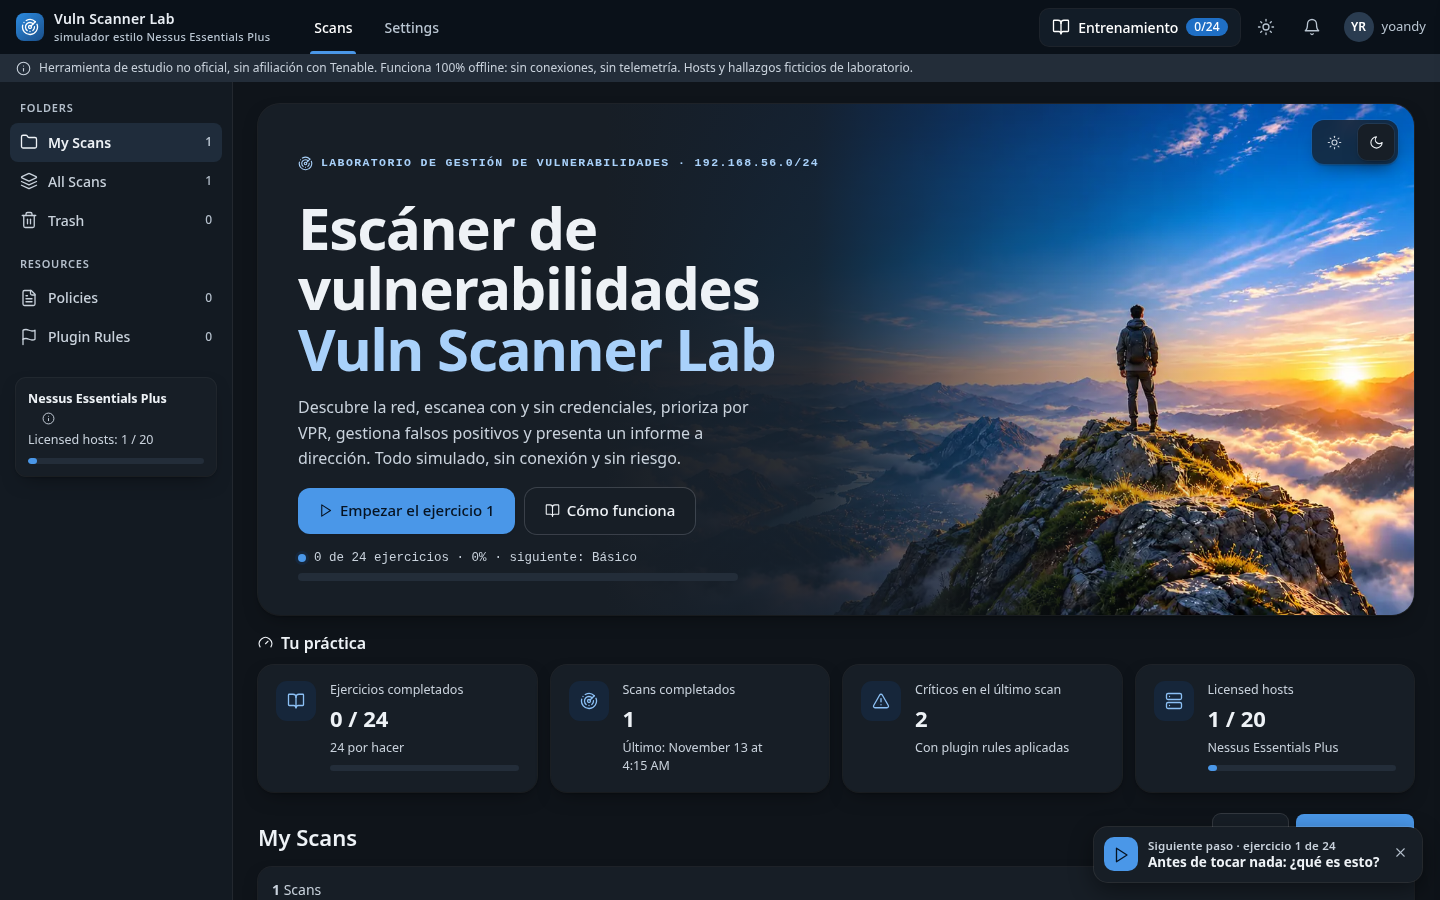
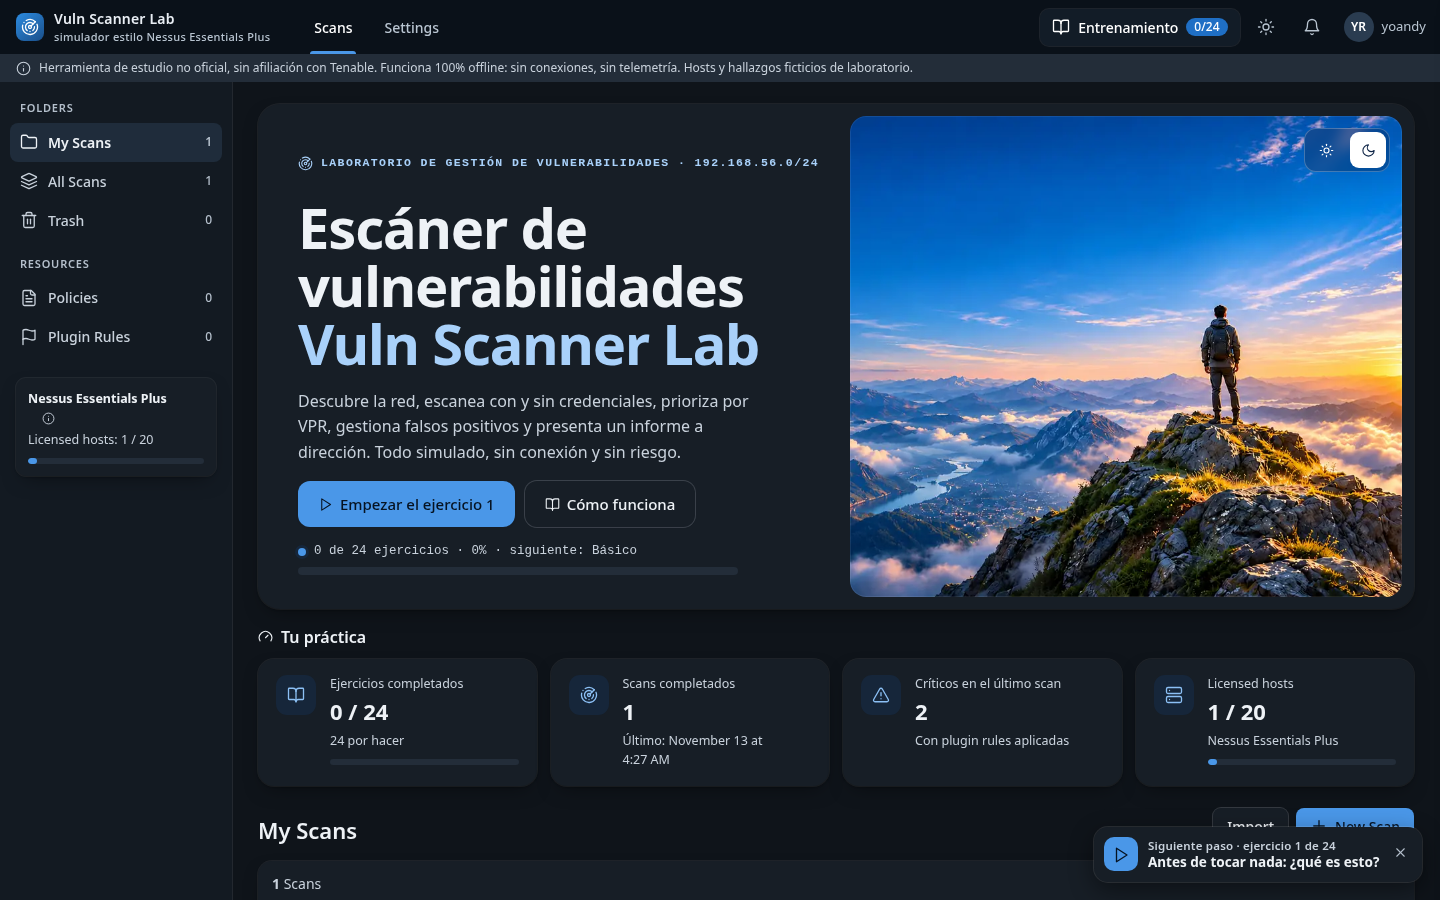
Hero limpio: imagen entera junto al texto, sin velos
La imagen se muestra completa y nítida a la derecha, como en Blue-Jr, y el texto va sobre la tarjeta (contraste 10:1 o más en claro y oscuro). En móvil el recuadro «Siguiente paso» se oculta mientras se ve la portada y vuelve al bajar.

diff --git a/index.html b/index.html
@@ -300,13 +300,13 @@ details.hint summary{cursor:pointer;font-weight:600}
  .btn:active,.tcard:active,.coach:active,.ex:active,.trainbtn:active,.iconbtn:active,.side button:active{transform:none!important}
 }
 /* ===== Hero (portada) ===== */
-.hero{position:relative;overflow:hidden;border-radius:22px;background:var(--surface);box-shadow:var(--ring);min-height:400px;display:grid;grid-template-columns:minmax(0,1.05fr) minmax(0,1fr);isolation:isolate;margin-bottom:18px}
-.hero-art{position:absolute;inset:0 0 0 30%;z-index:-2;background:var(--surface-3) 68% center/cover no-repeat}
-.hero-art::after{content:"";position:absolute;inset:0;background:linear-gradient(90deg,var(--surface) 0%,color-mix(in srgb,var(--surface) 90%,transparent) 26%,color-mix(in srgb,var(--surface) 45%,transparent) 50%,transparent 78%)}
-.hero-txt{padding:40px 8px 34px 40px;display:flex;flex-direction:column;justify-content:center;gap:16px;max-width:620px}
-.hero{--ha:#123f7a}[data-theme=dark] .hero{--ha:#a9d1fa}
+/* Como en Blue-Jr: texto a la izquierda sobre la tarjeta y la imagen entera y limpia a la derecha, sin velos ni fundidos */
+.hero{--ha:#123f7a;position:relative;overflow:hidden;border-radius:22px;background:var(--surface);box-shadow:var(--ring);min-height:420px;display:grid;grid-template-columns:minmax(0,1.05fr) minmax(0,1fr);isolation:isolate;margin-bottom:18px}
+[data-theme=dark] .hero{--ha:#a9d1fa}
+.hero-art{grid-column:2;grid-row:1;margin:12px 12px 12px 0;border-radius:16px;min-height:240px;background:var(--surface-3) 64% center/cover no-repeat;box-shadow:inset 0 0 0 1px rgba(255,255,255,.08)}
+.hero-txt{grid-column:1;grid-row:1;padding:40px 28px 34px 40px;display:flex;flex-direction:column;justify-content:center;gap:16px;max-width:620px}
 .hero .eyebrow{display:flex;align-items:center;gap:8px;font:600 11.5px/1.2 var(--mono);letter-spacing:1.4px;text-transform:uppercase;color:var(--ha)}
-.hero h1{font-size:clamp(34px,4.6vw,58px);line-height:1.04;letter-spacing:-.02em;font-weight:700;margin:0}
+.hero h1{font-size:clamp(34px,4.2vw,56px);line-height:1.04;letter-spacing:-.02em;font-weight:700;margin:0}
 .hero h1 .l2{display:block;color:var(--ha)}
 .hero h1 .w{display:inline-block;overflow:hidden;vertical-align:bottom;padding-bottom:.06em}
 .hero h1 .w>span{display:inline-block;animation:heroWord .6s cubic-bezier(.2,0,0,1) both;animation-delay:calc(var(--i)*70ms)}
@@ -316,13 +316,14 @@ details.hint summary{cursor:pointer;font-weight:600}
 .hero-cta{display:flex;gap:10px;flex-wrap:wrap}
 .btn.lg{min-height:46px;padding:11px 20px;font-size:15px;border-radius:12px}
 .hero-prog{display:grid;gap:7px;max-width:440px}
-.hero-prog .row{display:flex;align-items:center;gap:8px;font:500 12.5px/1.3 var(--mono);color:var(--text-2)}
+.hero-prog .row{display:flex;flex-wrap:wrap;align-items:center;gap:4px 8px;font:500 12.5px/1.3 var(--mono);color:var(--text-2)}
+.hero-prog .row>span{white-space:nowrap}
 .hero-prog .dot{width:8px;height:8px;border-radius:50%;background:var(--primary);box-shadow:0 0 0 3px var(--primary-soft)}
 .hero-prog .meter{margin:0;height:8px}
-.hero-tools{position:absolute;top:16px;right:16px;display:flex;gap:6px;padding:4px;border-radius:12px;background:color-mix(in srgb,var(--surface) 78%,transparent);box-shadow:var(--ring);backdrop-filter:blur(8px)}
-.hero-tools button{width:36px;height:36px;border:0;border-radius:9px;background:none;color:var(--text-2);display:grid;place-items:center;cursor:pointer;transition:background-color .15s,color .15s}
-.hero-tools button:hover{color:var(--text)}
-.hero-tools button[aria-pressed=true]{background:var(--surface);color:var(--text);box-shadow:var(--ring)}
+.hero-tools{position:absolute;top:24px;right:24px;display:flex;gap:6px;padding:4px;border-radius:12px;background:rgba(8,24,60,.3);box-shadow:inset 0 0 0 1px rgba(255,255,255,.24);backdrop-filter:blur(8px)}
+.hero-tools button{width:36px;height:36px;border:0;border-radius:9px;background:none;color:#fff;display:grid;place-items:center;cursor:pointer;transition:background-color .15s,color .15s}
+.hero-tools button:hover{background:rgba(255,255,255,.16)}
+.hero-tools button[aria-pressed=true]{background:#fff;color:#0f2547}
 .hstats{display:grid;grid-template-columns:repeat(4,minmax(0,1fr));gap:14px;margin-bottom:22px}
 .hstat{background:var(--surface);border-radius:16px;box-shadow:var(--ring);padding:16px 18px;display:flex;gap:14px;align-items:flex-start}
 .hstat .si{width:40px;height:40px;border-radius:11px;display:grid;place-items:center;flex:none;background:var(--primary-soft);color:var(--link)}
@@ -333,16 +334,18 @@ details.hint summary{cursor:pointer;font-weight:600}
 .sec-t{display:flex;align-items:center;gap:8px;font-size:16px;margin:0 0 12px}
 @media (max-width:1100px){.hstats{grid-template-columns:repeat(2,minmax(0,1fr))}}
 @media (max-width:760px){
+ /* Móvil: imagen entera arriba y el texto debajo, sin fundidos */
  .hero{grid-template-columns:1fr;min-height:0}
- .hero-art{position:relative;inset:auto;aspect-ratio:16/9;z-index:0}
- .hero-art::after{background:linear-gradient(180deg,transparent 55%,var(--surface) 100%)}
- .hero-txt{padding:4px 20px 24px;max-width:none}
+ .hero-art{grid-column:1;grid-row:1;margin:10px 10px 0;aspect-ratio:16/9;min-height:0;border-radius:14px;background-position:60% center}
+ .hero-txt{grid-row:2;padding:18px 20px 24px;max-width:none}
+ .hero-tools{top:20px;right:20px}
  .hero .lead{font-size:15px}
  .hero-cta .btn{flex:1 1 auto;justify-content:center}
  .hstats{grid-template-columns:1fr 1fr;gap:10px}
  .hstat{padding:14px}
  .hstat .si{display:none}
 }
+@media (max-width:640px){body.hero-vis .coach{display:none}}
 @media (prefers-reduced-motion:reduce){.hero h1 .w>span{animation:none}}
 </style>
 </head>
@@ -1694,7 +1697,11 @@ function welcome(){
  <div class="w"><div class="ti">${ic('info')}</div><div><b>Si te pierdes</b><p>El recuadro <b>Siguiente paso</b> (abajo a la derecha) te dice qué toca. Los botones ${ic('info','sm')} explican cada término.</p></div></div></div>`,
  `<button class="btn" onclick="closeModal();ev('welcome')">Explorar por mi cuenta</button><button class="btn primary" onclick="closeModal();ev('welcome');toggleDrawer(true,'ex',0)">${ic('play','sm')}Empezar el ejercicio 1</button>`,'wide');}
 let coachHidden=false;
+/* En móvil el recuadro «Siguiente paso» se oculta mientras se ve la portada: ella ya ofrece el mismo botón */
+function heroVis(){const h=document.querySelector('.hero'),r=h&&h.getBoundingClientRect();document.body.classList.toggle('hero-vis',!!r&&r.bottom>innerHeight*.35&&r.top<innerHeight);}
+addEventListener('scroll',heroVis,{capture:true,passive:true});addEventListener('resize',heroVis);
 function renderCoach(){
+ heroVis();
  let el=document.getElementById('coach');
  const i=EXERCISES.findIndex(e=>!exDone(e));
  if(drawerOpen||coachHidden||i<0||document.getElementById('modal').innerHTML){if(el)el.remove();return;}
@@ -1723,7 +1730,7 @@ function vHero(){
  const used=licensedUsed(),L=lic(),pct=Math.round(done/n*100);
  const stat=(icon,t,v,c,extra='')=>`<div class="hstat"><span class="si" aria-hidden="true">${ic(icon)}</span><div style="min-width:0;flex:1"><p class="st-t">${t}</p><p class="st-v">${v}</p><p class="st-c">${c}</p>${extra}</div></div>`;
  return`<section class="hero" aria-labelledby="hero-t">
-  <div class="hero-art" role="img" aria-label="Persona en la cima de una montaña dentro de un portal azul y violeta al amanecer" style="background-image:url('${HERO_IMG}')"></div>
+  <div class="hero-art" role="img" aria-label="Persona en la cima de una montaña sobre un mar de nubes al amanecer" style="background-image:url('${HERO_IMG}')"></div>
   <div class="hero-tools" role="group" aria-label="Tema"><button aria-pressed="${S.theme!=='dark'}" aria-label="Tema claro" title="Tema claro" onclick="if(S.theme==='dark')toggleTheme()">${ic('sun','sm')}</button><button aria-pressed="${S.theme==='dark'}" aria-label="Tema oscuro" title="Tema oscuro" onclick="if(S.theme!=='dark')toggleTheme()">${ic('moon','sm')}</button></div>
   <div class="hero-txt">
    <p class="eyebrow">${ic('radar','sm')}Laboratorio de gestión de vulnerabilidades · 192.168.56.0/24</p>

diff --git a/hero/hero.css b/hero/hero.css
@@ -1,11 +1,11 @@
-.hero{--ha:#123f7a}[data-theme=dark] .hero{--ha:#a9d1fa}
 /* ===== Hero (portada) ===== */
-.hero{position:relative;overflow:hidden;border-radius:22px;background:var(--surface);box-shadow:var(--ring);min-height:400px;display:grid;grid-template-columns:minmax(0,1.05fr) minmax(0,1fr);isolation:isolate;margin-bottom:18px}
-.hero-art{position:absolute;inset:0 0 0 30%;z-index:-2;background:var(--surface-3) 68% center/cover no-repeat}
-.hero-art::after{content:"";position:absolute;inset:0;background:linear-gradient(90deg,var(--surface) 0%,color-mix(in srgb,var(--surface) 90%,transparent) 26%,color-mix(in srgb,var(--surface) 45%,transparent) 50%,transparent 78%)}
-.hero-txt{padding:40px 8px 34px 40px;display:flex;flex-direction:column;justify-content:center;gap:16px;max-width:620px}
+/* Como en Blue-Jr: texto a la izquierda sobre la tarjeta y la imagen entera y limpia a la derecha, sin velos ni fundidos */
+.hero{--ha:#123f7a;position:relative;overflow:hidden;border-radius:22px;background:var(--surface);box-shadow:var(--ring);min-height:420px;display:grid;grid-template-columns:minmax(0,1.05fr) minmax(0,1fr);isolation:isolate;margin-bottom:18px}
+[data-theme=dark] .hero{--ha:#a9d1fa}
+.hero-art{grid-column:2;grid-row:1;margin:12px 12px 12px 0;border-radius:16px;min-height:240px;background:var(--surface-3) 64% center/cover no-repeat;box-shadow:inset 0 0 0 1px rgba(255,255,255,.08)}
+.hero-txt{grid-column:1;grid-row:1;padding:40px 28px 34px 40px;display:flex;flex-direction:column;justify-content:center;gap:16px;max-width:620px}
 .hero .eyebrow{display:flex;align-items:center;gap:8px;font:600 11.5px/1.2 var(--mono);letter-spacing:1.4px;text-transform:uppercase;color:var(--ha)}
-.hero h1{font-size:clamp(34px,4.6vw,58px);line-height:1.04;letter-spacing:-.02em;font-weight:700;margin:0}
+.hero h1{font-size:clamp(34px,4.2vw,56px);line-height:1.04;letter-spacing:-.02em;font-weight:700;margin:0}
 .hero h1 .l2{display:block;color:var(--ha)}
 .hero h1 .w{display:inline-block;overflow:hidden;vertical-align:bottom;padding-bottom:.06em}
 .hero h1 .w>span{display:inline-block;animation:heroWord .6s cubic-bezier(.2,0,0,1) both;animation-delay:calc(var(--i)*70ms)}
@@ -15,13 +15,14 @@
 .hero-cta{display:flex;gap:10px;flex-wrap:wrap}
 .btn.lg{min-height:46px;padding:11px 20px;font-size:15px;border-radius:12px}
 .hero-prog{display:grid;gap:7px;max-width:440px}
-.hero-prog .row{display:flex;align-items:center;gap:8px;font:500 12.5px/1.3 var(--mono);color:var(--text-2)}
+.hero-prog .row{display:flex;flex-wrap:wrap;align-items:center;gap:4px 8px;font:500 12.5px/1.3 var(--mono);color:var(--text-2)}
+.hero-prog .row>span{white-space:nowrap}
 .hero-prog .dot{width:8px;height:8px;border-radius:50%;background:var(--primary);box-shadow:0 0 0 3px var(--primary-soft)}
 .hero-prog .meter{margin:0;height:8px}
-.hero-tools{position:absolute;top:16px;right:16px;display:flex;gap:6px;padding:4px;border-radius:12px;background:color-mix(in srgb,var(--surface) 78%,transparent);box-shadow:var(--ring);backdrop-filter:blur(8px)}
-.hero-tools button{width:36px;height:36px;border:0;border-radius:9px;background:none;color:var(--text-2);display:grid;place-items:center;cursor:pointer;transition:background-color .15s,color .15s}
-.hero-tools button:hover{color:var(--text)}
-.hero-tools button[aria-pressed=true]{background:var(--surface);color:var(--text);box-shadow:var(--ring)}
+.hero-tools{position:absolute;top:24px;right:24px;display:flex;gap:6px;padding:4px;border-radius:12px;background:rgba(8,24,60,.3);box-shadow:inset 0 0 0 1px rgba(255,255,255,.24);backdrop-filter:blur(8px)}
+.hero-tools button{width:36px;height:36px;border:0;border-radius:9px;background:none;color:#fff;display:grid;place-items:center;cursor:pointer;transition:background-color .15s,color .15s}
+.hero-tools button:hover{background:rgba(255,255,255,.16)}
+.hero-tools button[aria-pressed=true]{background:#fff;color:#0f2547}
 .hstats{display:grid;grid-template-columns:repeat(4,minmax(0,1fr));gap:14px;margin-bottom:22px}
 .hstat{background:var(--surface);border-radius:16px;box-shadow:var(--ring);padding:16px 18px;display:flex;gap:14px;align-items:flex-start}
 .hstat .si{width:40px;height:40px;border-radius:11px;display:grid;place-items:center;flex:none;background:var(--primary-soft);color:var(--link)}
@@ -32,14 +33,16 @@
 .sec-t{display:flex;align-items:center;gap:8px;font-size:16px;margin:0 0 12px}
 @media (max-width:1100px){.hstats{grid-template-columns:repeat(2,minmax(0,1fr))}}
 @media (max-width:760px){
+ /* Móvil: imagen entera arriba y el texto debajo, sin fundidos */
  .hero{grid-template-columns:1fr;min-height:0}
- .hero-art{position:relative;inset:auto;aspect-ratio:16/9;z-index:0}
- .hero-art::after{background:linear-gradient(180deg,transparent 55%,var(--surface) 100%)}
- .hero-txt{padding:4px 20px 24px;max-width:none}
+ .hero-art{grid-column:1;grid-row:1;margin:10px 10px 0;aspect-ratio:16/9;min-height:0;border-radius:14px;background-position:60% center}
+ .hero-txt{grid-row:2;padding:18px 20px 24px;max-width:none}
+ .hero-tools{top:20px;right:20px}
  .hero .lead{font-size:15px}
  .hero-cta .btn{flex:1 1 auto;justify-content:center}
  .hstats{grid-template-columns:1fr 1fr;gap:10px}
  .hstat{padding:14px}
  .hstat .si{display:none}
 }
+@media (max-width:640px){body.hero-vis .coach{display:none}}
 @media (prefers-reduced-motion:reduce){.hero h1 .w>span{animation:none}}

diff --git a/hero/hero.js b/hero/hero.js
@@ -16,7 +16,7 @@ function vHero(){
  const used=licensedUsed(),L=lic(),pct=Math.round(done/n*100);
  const stat=(icon,t,v,c,extra='')=>`<div class="hstat"><span class="si" aria-hidden="true">${ic(icon)}</span><div style="min-width:0;flex:1"><p class="st-t">${t}</p><p class="st-v">${v}</p><p class="st-c">${c}</p>${extra}</div></div>`;
  return`<section class="hero" aria-labelledby="hero-t">
-  <div class="hero-art" role="img" aria-label="Persona en la cima de una montaña dentro de un portal azul y violeta al amanecer" style="background-image:url('${HERO_IMG}')"></div>
+  <div class="hero-art" role="img" aria-label="Persona en la cima de una montaña sobre un mar de nubes al amanecer" style="background-image:url('${HERO_IMG}')"></div>
   <div class="hero-tools" role="group" aria-label="Tema"><button aria-pressed="${S.theme!=='dark'}" aria-label="Tema claro" title="Tema claro" onclick="if(S.theme==='dark')toggleTheme()">${ic('sun','sm')}</button><button aria-pressed="${S.theme==='dark'}" aria-label="Tema oscuro" title="Tema oscuro" onclick="if(S.theme!=='dark')toggleTheme()">${ic('moon','sm')}</button></div>
   <div class="hero-txt">
    <p class="eyebrow">${ic('radar','sm')}Laboratorio de gestión de vulnerabilidades · 192.168.56.0/24</p>

diff --git a/pruebas/e2e.js b/pruebas/e2e.js
@@ -48,7 +48,16 @@ async function axe(page, label) {
     await page.click('.drawer .tab:has-text("Ejercicios")');
     await page.click('.drawer header button[aria-label="Cerrar"]');
     await page.waitForTimeout(400);
-    ok(await page.isVisible('#coach'), 'el recuadro «Siguiente paso» está visible');
+    if (vp.n === 'desk') {
+      ok(await page.isVisible('#coach'), 'el recuadro «Siguiente paso» está visible');
+    } else {
+      // En móvil se oculta mientras se ve la portada (no tapa sus botones) y vuelve al bajar
+      ok(!(await page.isVisible('#coach')), 'en móvil «Siguiente paso» no tapa la portada');
+      await page.mouse.move(200, 600);
+      for (let k = 0; k < 6; k++) { await page.mouse.wheel(0, 500); await page.waitForTimeout(150); }
+      await page.waitForTimeout(300);
+      ok(await page.isVisible('#coach'), 'en móvil «Siguiente paso» aparece al bajar');
+    }
     await axe(page, 'lista de scans + siguiente paso');
 
     if (vp.n === 'desk') {
